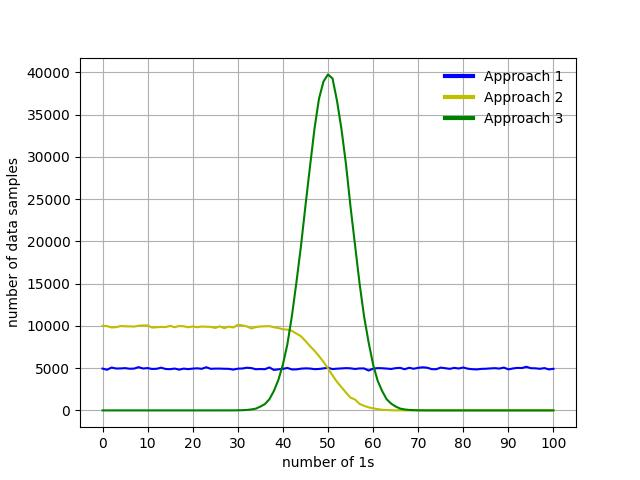
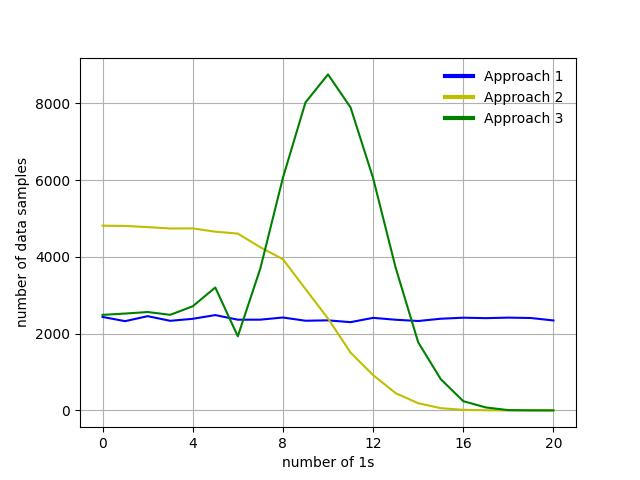
update

diff --git a/Data/graphs/data_generation.py b/Data/graphs/data_generation.py
@@ -3,8 +3,8 @@ from collections import Counter
 import matplotlib.pyplot as plt
 import numpy as np
 
-n_samples = 500000
-n_elems = 100
+n_samples = 50000
+n_elems = 20
 
 approach1 = ParityDataset(n_samples=n_samples,
                           n_elems=n_elems,
@@ -13,7 +13,8 @@ approach1 = ParityDataset(n_samples=n_samples,
                           exclude_dataset=None,
                           unique=False,
                           model='mlp',
-                          approach=1)
+                          approach=1,
+                          data_augmentation=0)
 
 approach2 = ParityDataset(n_samples=n_samples,
                           n_elems=n_elems,
@@ -22,7 +23,8 @@ approach2 = ParityDataset(n_samples=n_samples,
                           exclude_dataset=None,
                           unique=False,
                           model='mlp',
-                          approach=2)
+                          approach=2,
+                          data_augmentation=0)
 
 approach3 = ParityDataset(n_samples=n_samples,
                           n_elems=n_elems,
@@ -31,7 +33,8 @@ approach3 = ParityDataset(n_samples=n_samples,
                           exclude_dataset=None,
                           unique=False,
                           model='mlp',
-                          approach=3)
+                          approach=3,
+                          data_augmentation=0.3)
 
 data1 = {i: 0 for i in range(n_elems+1)}
 for i, j in Counter((approach1.X == 1).sum(dim=1).numpy()).items():
@@ -59,7 +62,7 @@ plt.plot([i[0] for i in data3], [i[1] for i in data3], color='g', linewidth=1.5,
 plt.ylabel(f'number of data samples')
 plt.xlabel('number of 1s')
 plt.grid(True)
-plt.xticks(np.arange(0, n_elems+1, step=10))
+plt.xticks(np.arange(0, n_elems+1, step=4))
 leg = plt.legend(loc='best', frameon=False)
 for line in leg.get_lines():
     line.set_linewidth(3)

diff --git a/Data/utils.py b/Data/utils.py
@@ -13,7 +13,8 @@ class ParityDataset(Dataset):
         exclude_dataset=None,
         unique=False,
         model='rnn',
-        approach=0
+        approach=0,
+        data_augmentation=0
     ):
         self.n_samples = n_samples
         self.n_elems = n_elems
@@ -28,6 +29,7 @@ class ParityDataset(Dataset):
         self.unique = unique
         self.unique_set = set()
         self.val_set = set() if exclude_dataset is None else exclude_dataset.unique_set
+        self.data_augmentation = data_augmentation
 
         self.X, self.Y = [], []
 
@@ -70,6 +72,20 @@ class ParityDataset(Dataset):
             self.X.append(x)
             self.Y.append(y)
             self.unique_set.add(item)
+
+        if self.data_augmentation > 0:
+            n_aug = int(self.data_augmentation * self.n_samples)
+            for _ in range(n_aug):
+                x = torch.zeros((self.n_elems,))
+                n_non_zero = torch.randint(
+                    self.n_nonzero_min, 6, (1,)
+                ).item()
+                x[:n_non_zero] = 1.0
+                x = x[torch.randperm(self.n_elems)]
+                y = (x == 1.0).sum() % 2
+                self.X.append(x)
+                self.Y.append(y)
+            self.n_samples += n_aug
 
         self.Y = torch.Tensor(self.Y).float()
         if self.model == 'rnn':

diff --git a/Data/train_lstm.py b/Data/train_lstm.py
@@ -51,6 +51,10 @@ PARSER.add_argument('--seed',
                     type=int,
                     default=0,
                     help='seed')
+PARSER.add_argument('--data_augmentation',
+                    type=float,
+                    default=0,
+                    help='data_augmentation')
 
 
 args = PARSER.parse_args()
@@ -67,7 +71,8 @@ train_data = ParityDataset(n_samples=args.n_train_samples,
                            exclude_dataset=None,
                            unique=args.train_unique,
                            model='rnn',
-                           approach=args.approach)
+                           approach=args.approach,
+                           data_augmentation=args.data_augmentation)
 val_data = ParityDataset(n_samples=args.n_eval_samples,
                          n_elems=args.n_elems,
                          n_nonzero_min=1,
